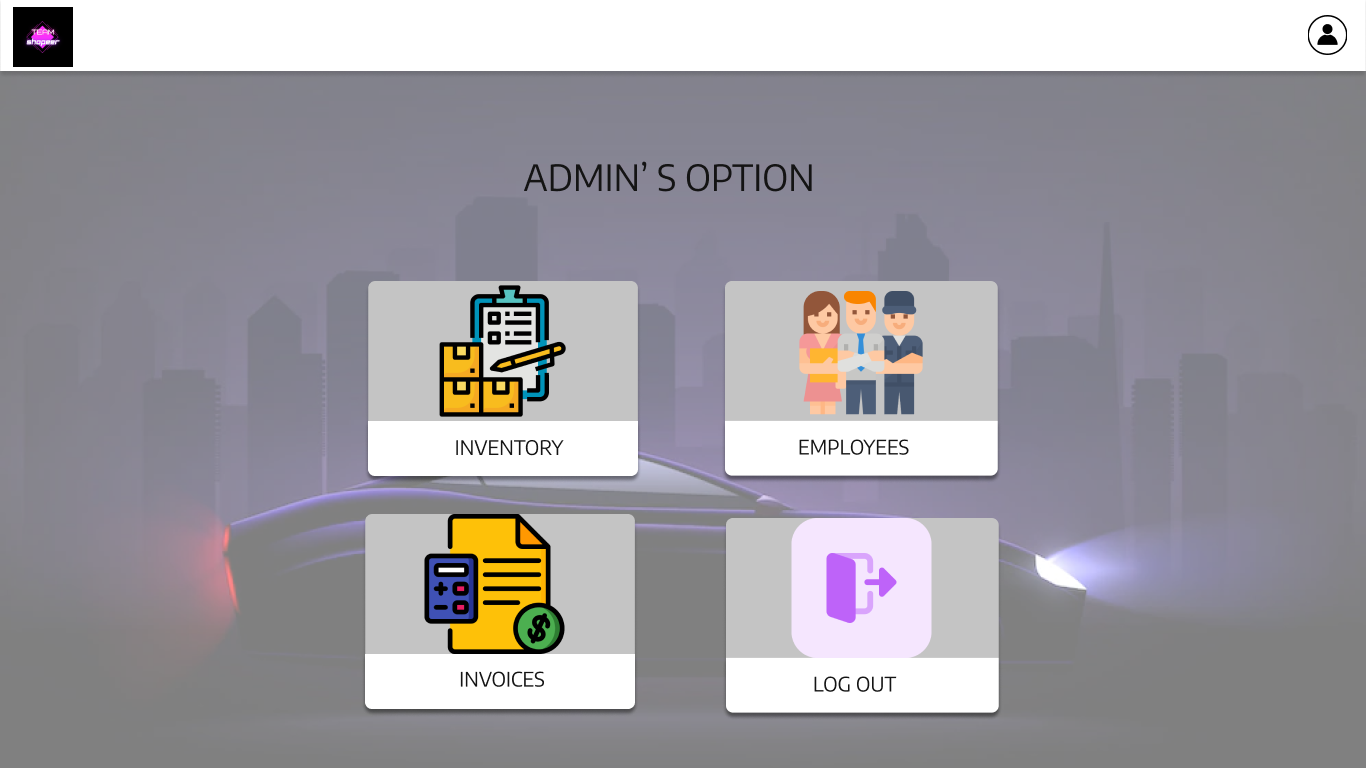
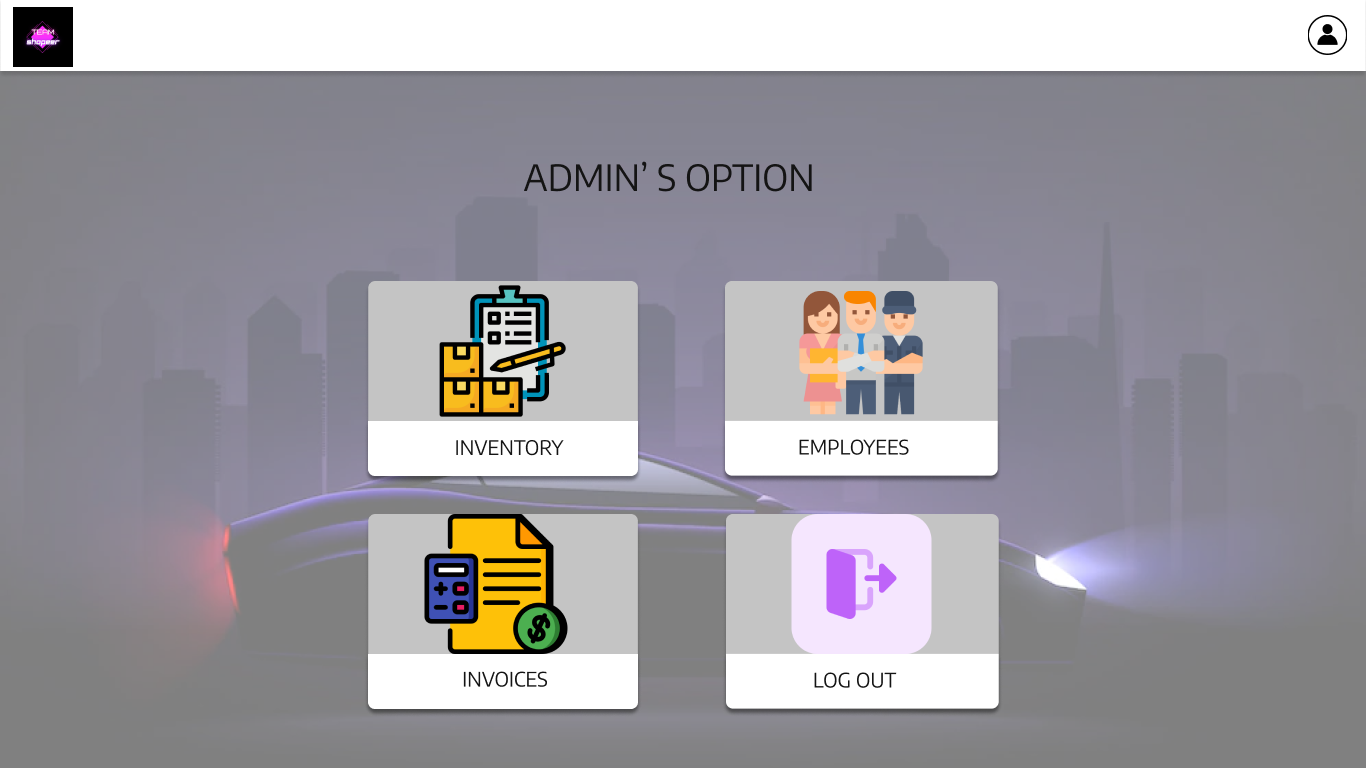
Updates no bug

diff --git a/View/AdminWorkView.py b/View/AdminWorkView.py
@@ -10,54 +10,49 @@ class AdminWorkView():
 
         self.label = Label(root)
         self.label.place(relx=0, rely=0, width=1366, height=768)
-        self.img_label = PhotoImage(file="./Images/AdminWork.png")
+        self.img_label = PhotoImage(master = root, file="./Images/AdminWork.png")
         self.label.configure(image=self.img_label)
 
         self.button_inventory = Button(root)
-        self.button_inventory.place(relx=0.4, rely=0.4)
+        self.button_inventory.place(relx=0.2676, rely=0.3651)
         self.button_inventory.configure(relief="flat")
         self.button_inventory.configure(overrelief="flat")
-        self.button_inventory.configure(activebackground="#ffffff")
-        self.button_inventory.configure(foreground="#ffffff")
-        self.button_inventory.configure(background="#ffffff")
+        self.button_inventory.configure(activebackground="#828293")
+        self.button_inventory.configure(foreground="#828293")
+        self.button_inventory.configure(background="#828293")
         self.button_inventory.configure(borderwidth="0")
-        self.img_inventory = PhotoImage(file="./Images/inventory.png")
+        self.img_inventory = PhotoImage(master = root, file="./Images/inventory.png")
         self.button_inventory.configure(image=self.img_inventory)
 
         self.button_employee = Button(root)
-        self.button_employee.place(relx=0.4, rely=0.4)
+        self.button_employee.place(relx=0.53, rely=0.3651)
         self.button_employee.configure(relief="flat")
         self.button_employee.configure(overrelief="flat")
-        self.button_employee.configure(activebackground="#ffffff")
-        self.button_employee.configure(foreground="#ffffff")
-        self.button_employee.configure(background="#ffffff")
+        self.button_employee.configure(activebackground="#828293")
+        self.button_employee.configure(foreground="#828293")
+        self.button_employee.configure(background="#828293")
         self.button_employee.configure(borderwidth="0")
-        self.img_employee = PhotoImage(file="./Images/employee.png")
+        self.img_employee = PhotoImage(master = root, file="./Images/employee.png")
         self.button_employee.configure(image=self.img_employee)
 
         self.button_quit = Button(root)
-        self.button_quit.place(relx=0.4, rely=0.4)
+        self.button_quit.place(relx=0.53, rely=0.6676)
         self.button_quit.configure(relief="flat")
         self.button_quit.configure(overrelief="flat")
-        self.button_quit.configure(activebackground="#ffffff")
-        self.button_quit.configure(foreground="#ffffff")
-        self.button_quit.configure(background="#ffffff")
+        self.button_quit.configure(activebackground="#828293")
+        self.button_quit.configure(foreground="#828293")
+        self.button_quit.configure(background="#828293")
         self.button_quit.configure(borderwidth="0")
-        self.img_quit = PhotoImage(file="./Images/quit.png")
+        self.img_quit = PhotoImage(master = root, file="./Images/quit.png")
         self.button_quit.configure(image=self.img_quit)
 
         self.button_invoice = Button(root)
-        self.button_invoice.place(relx=0.4, rely=0.4)
+        self.button_invoice.place(relx=0.2676, rely=0.6676)
         self.button_invoice.configure(relief="flat")
         self.button_invoice.configure(overrelief="flat")
-        self.button_invoice.configure(activebackground="#ffffff")
-        self.button_invoice.configure(foreground="#ffffff")
-        self.button_invoice.configure(background="#ffffff")
+        self.button_invoice.configure(activebackground="#828293")
+        self.button_invoice.configure(foreground="#828293")
+        self.button_invoice.configure(background="#828293")
         self.button_invoice.configure(borderwidth="0")
-        self.img_invoice = PhotoImage(file="./Images/invoice.png")
+        self.img_invoice = PhotoImage(master = root, file="./Images/invoice.png")
         self.button_invoice.configure(image=self.img_invoice)
-
-root = Tk()
-model = ""
-AdminWorkView(root, model)
-root.mainloop()

diff --git a/View/AdminLoginPageView.py b/View/AdminLoginPageView.py
@@ -13,7 +13,7 @@ class AdminLoginPageView():
         self.label.configure(image=self.img)
 
         self.button_login = Button(root)
-        self.button_login.place(relx=0.7, rely=0.5, width=204, height=52)
+        self.button_login.place(relx=0.6625, rely=0.725, width=204, height=52)
         self.button_login.configure(relief="flat")
         self.button_login.configure(overrelief="flat")
         self.button_login.configure(activebackground="#ffffff")
@@ -24,14 +24,14 @@ class AdminLoginPageView():
         self.button_login.configure(image=self.img_login)
 
         self.entry_username = Entry(root)
-        self.entry_username.place(relx=0.527, rely=0.646, width=374, height=30)
-        self.entry_username.configure(font="-family {Poppins} -size 12")
+        self.entry_username.place(relx=0.62, rely=0.521, width=350, height=30)
+        self.entry_username.configure(font="Itim 18")
         self.entry_username.configure(relief="flat")
-        self.entry_username.focus()
+        self.entry_username.configure(bg="grey")
 
         self.entry_password = Entry(root)
-        self.entry_password.place(relx=0.527, rely=0.846, width=374, height=30)
-        self.entry_password.configure(font="-family {Poppins} -size 16")
+        self.entry_password.place(relx=0.62, rely=0.645, width=350, height=30)
+        self.entry_password.configure(font="Itim 18")
         self.entry_password.configure(relief="flat")
         self.entry_password.configure(show="*")
-        self.entry_password.focus()
+        self.entry_password.configure(bg="grey")

diff --git a/View/RolePageView.py b/View/RolePageView.py
@@ -13,7 +13,7 @@ class RolePageView():
         self.label.configure(image=self.img)
 
         self.button_admin = Button(root)
-        self.button_admin.place(relx=0.7, rely=0.5, width=204, height=52)
+        self.button_admin.place(relx=0.665, rely=0.53, width=204, height=52)
         self.button_admin.configure(relief="flat")
         self.button_admin.configure(overrelief="flat")
         self.button_admin.configure(activebackground="#ffffff")
@@ -24,7 +24,7 @@ class RolePageView():
         self.button_admin.configure(image=self.img_admin)
 
         self.button_employee = Button(root)
-        self.button_employee.place(relx=0.7, rely=0.7, width=204, height=52)
+        self.button_employee.place(relx=0.665, rely=0.63, width=204, height=52)
         self.button_employee.configure(relief="flat")
         self.button_employee.configure(overrelief="flat")
         self.button_employee.configure(activebackground="#ffffff")

diff --git a/Controller/AdminWorkController.py b/Controller/AdminWorkController.py
@@ -1,16 +1,12 @@
 from tkinter import *
-import os
-print(os.getcwd())
 from tkinter import messagebox
-# from View.AdminWorkView import *
-# from Model.AdminWorkModel import *
-# import os
+from View.AdminWorkView import *
+from Model.AdminWorkModel import *
+
 
 class AdminWorkController():
     def __init__(self):
         self.root = Tk()
-        # self.model = AdminWorkModel()
-        # self.view = AdminWorkView(self.root, self.model)
+        self.model = AdminWorkModel()
+        self.view = AdminWorkView(self.root, self.model)
         self.root.mainloop()
-
-# AdminWorkController()

diff --git a/Controller/AdminLoginPageController.py b/Controller/AdminLoginPageController.py
@@ -20,7 +20,8 @@ class AdminLoginPageController():
             self.view.entry_username.config(textvariable =self.model.username)
             self.view.entry_password.config(textvariable =self.model.password)
             self.root.withdraw()
-            AdminWorkController()
+            global root 
+            root = AdminWorkController()
 
 
         else:

diff --git a/Setting/MakeCenter.py b/Setting/MakeCenter.py
@@ -9,4 +9,4 @@ def center(win):
     x = (win.winfo_screenwidth() // 2) - (width // 2)
     y = (win.winfo_screenheight() // 2) - (height // 2)
     win.geometry('{}x{}+{}+{}'.format(width, height, x, y))
-    win.deiconify()
+    # win.deiconify()
